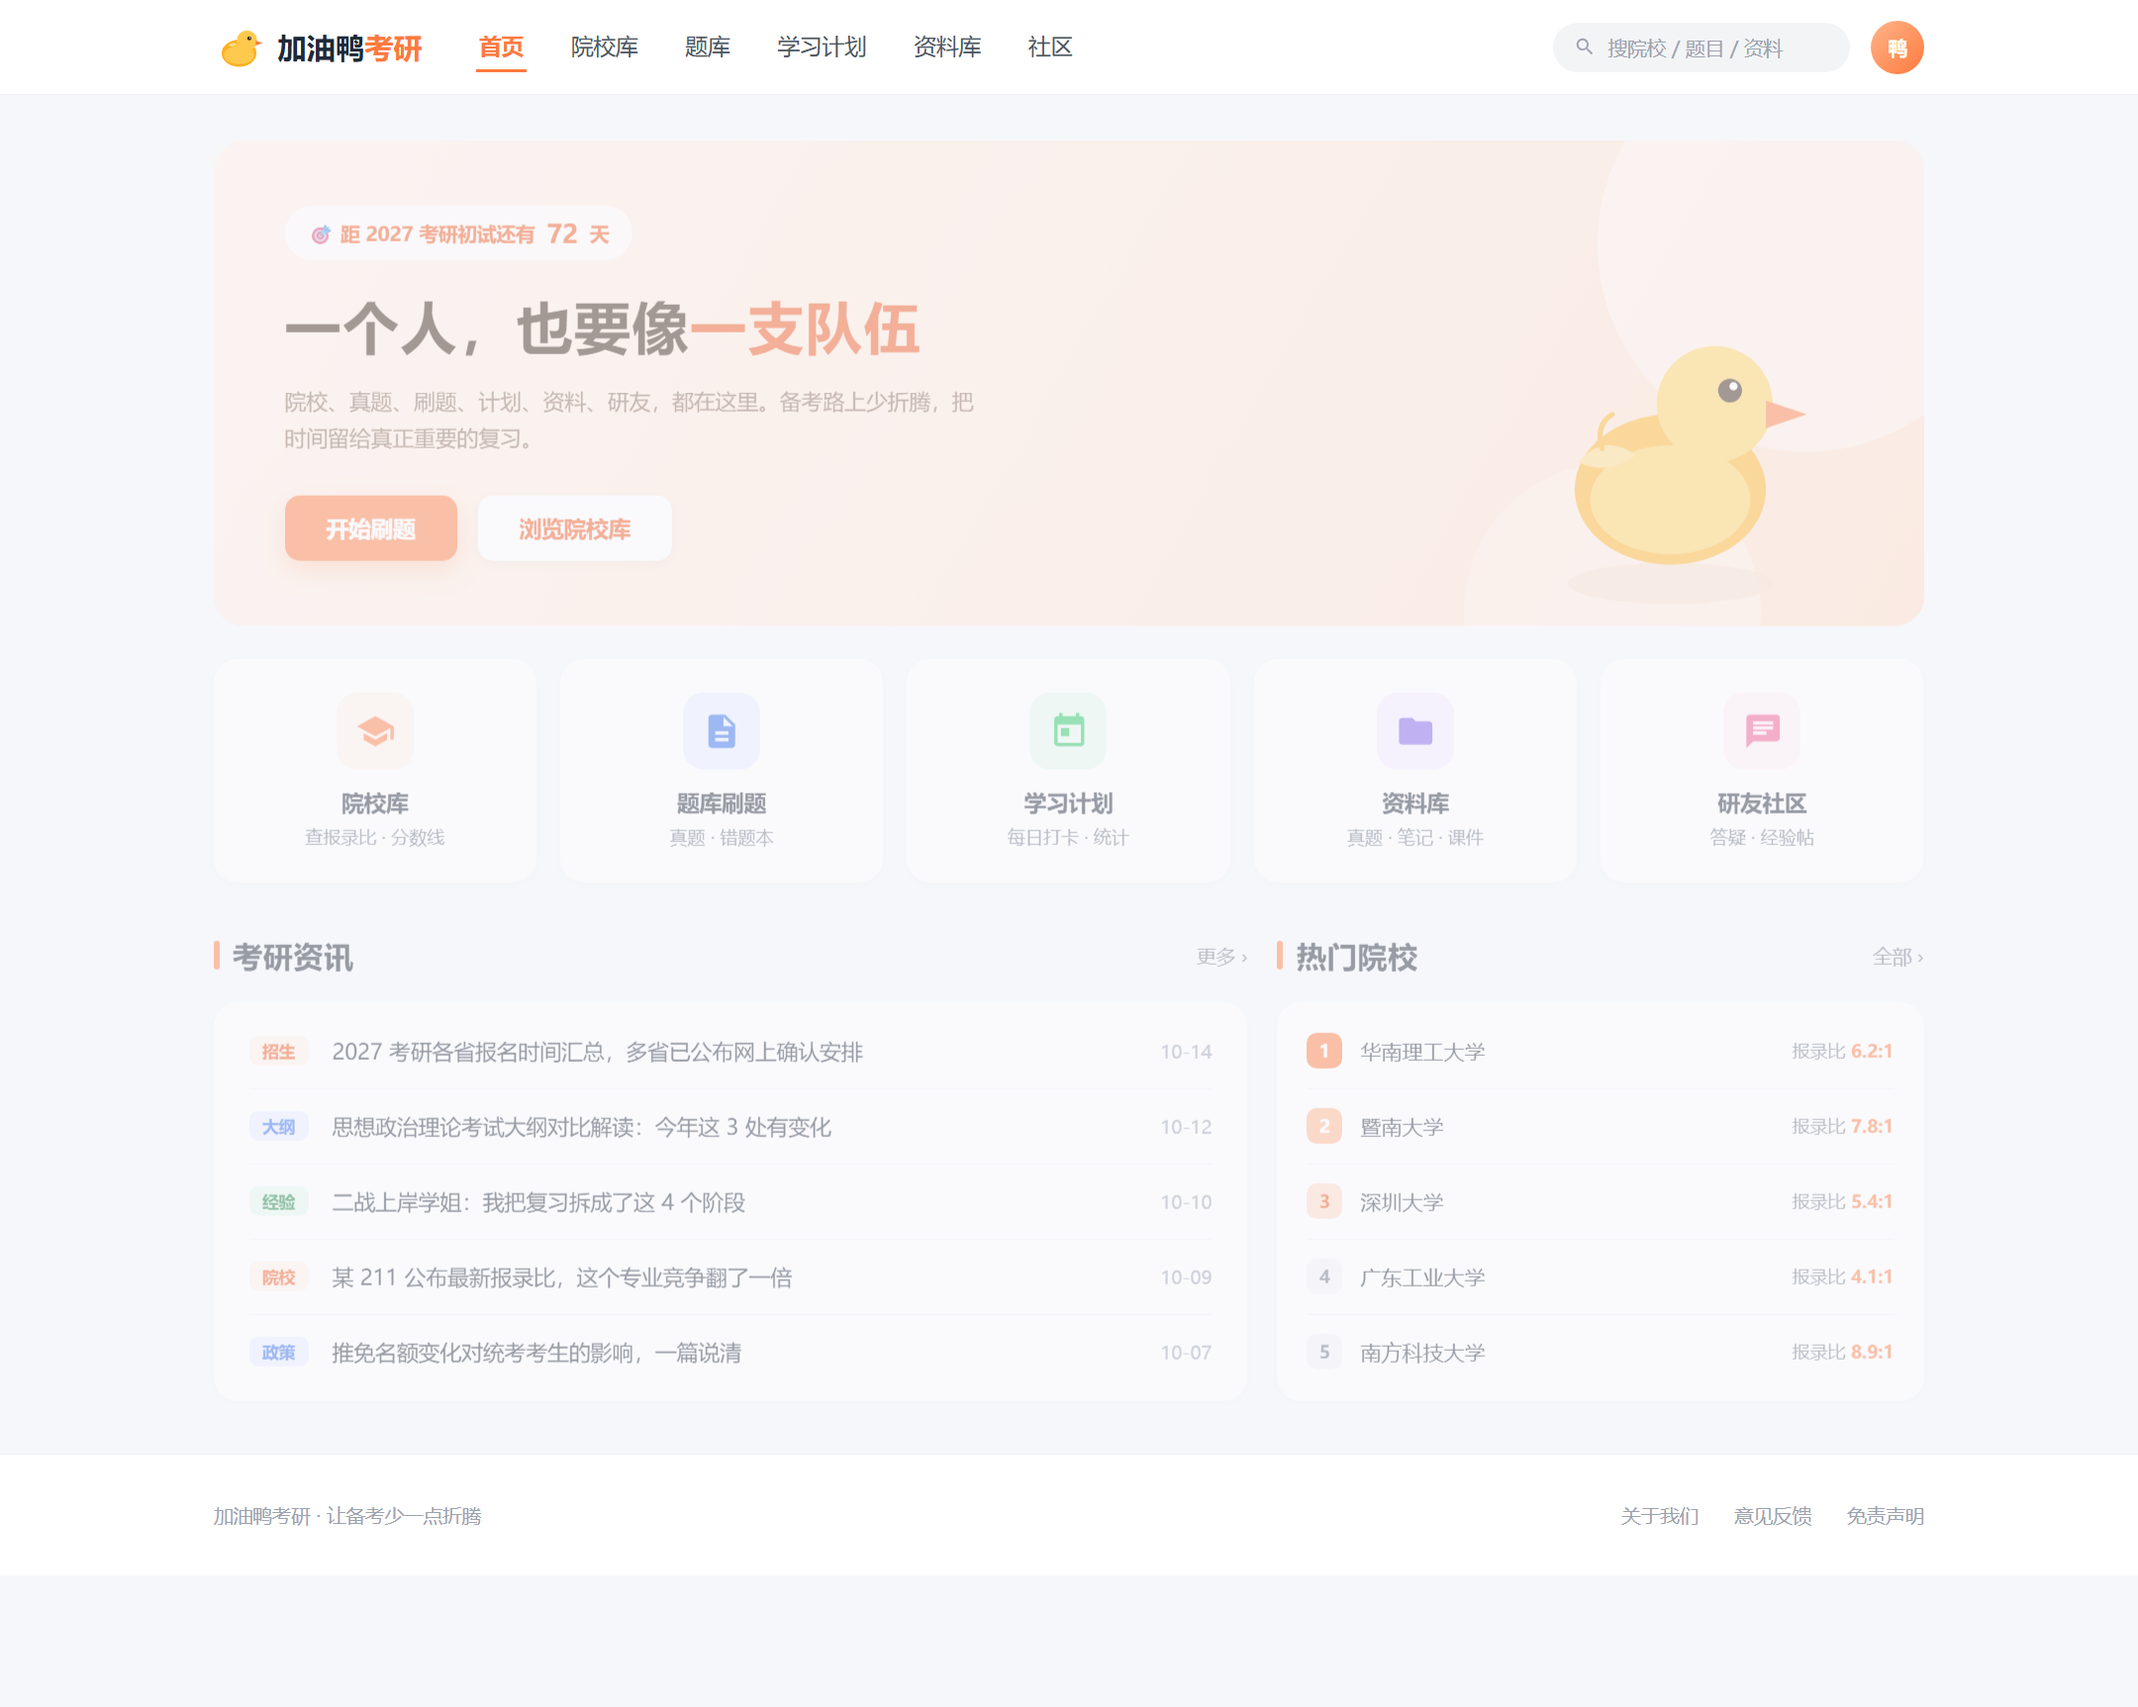
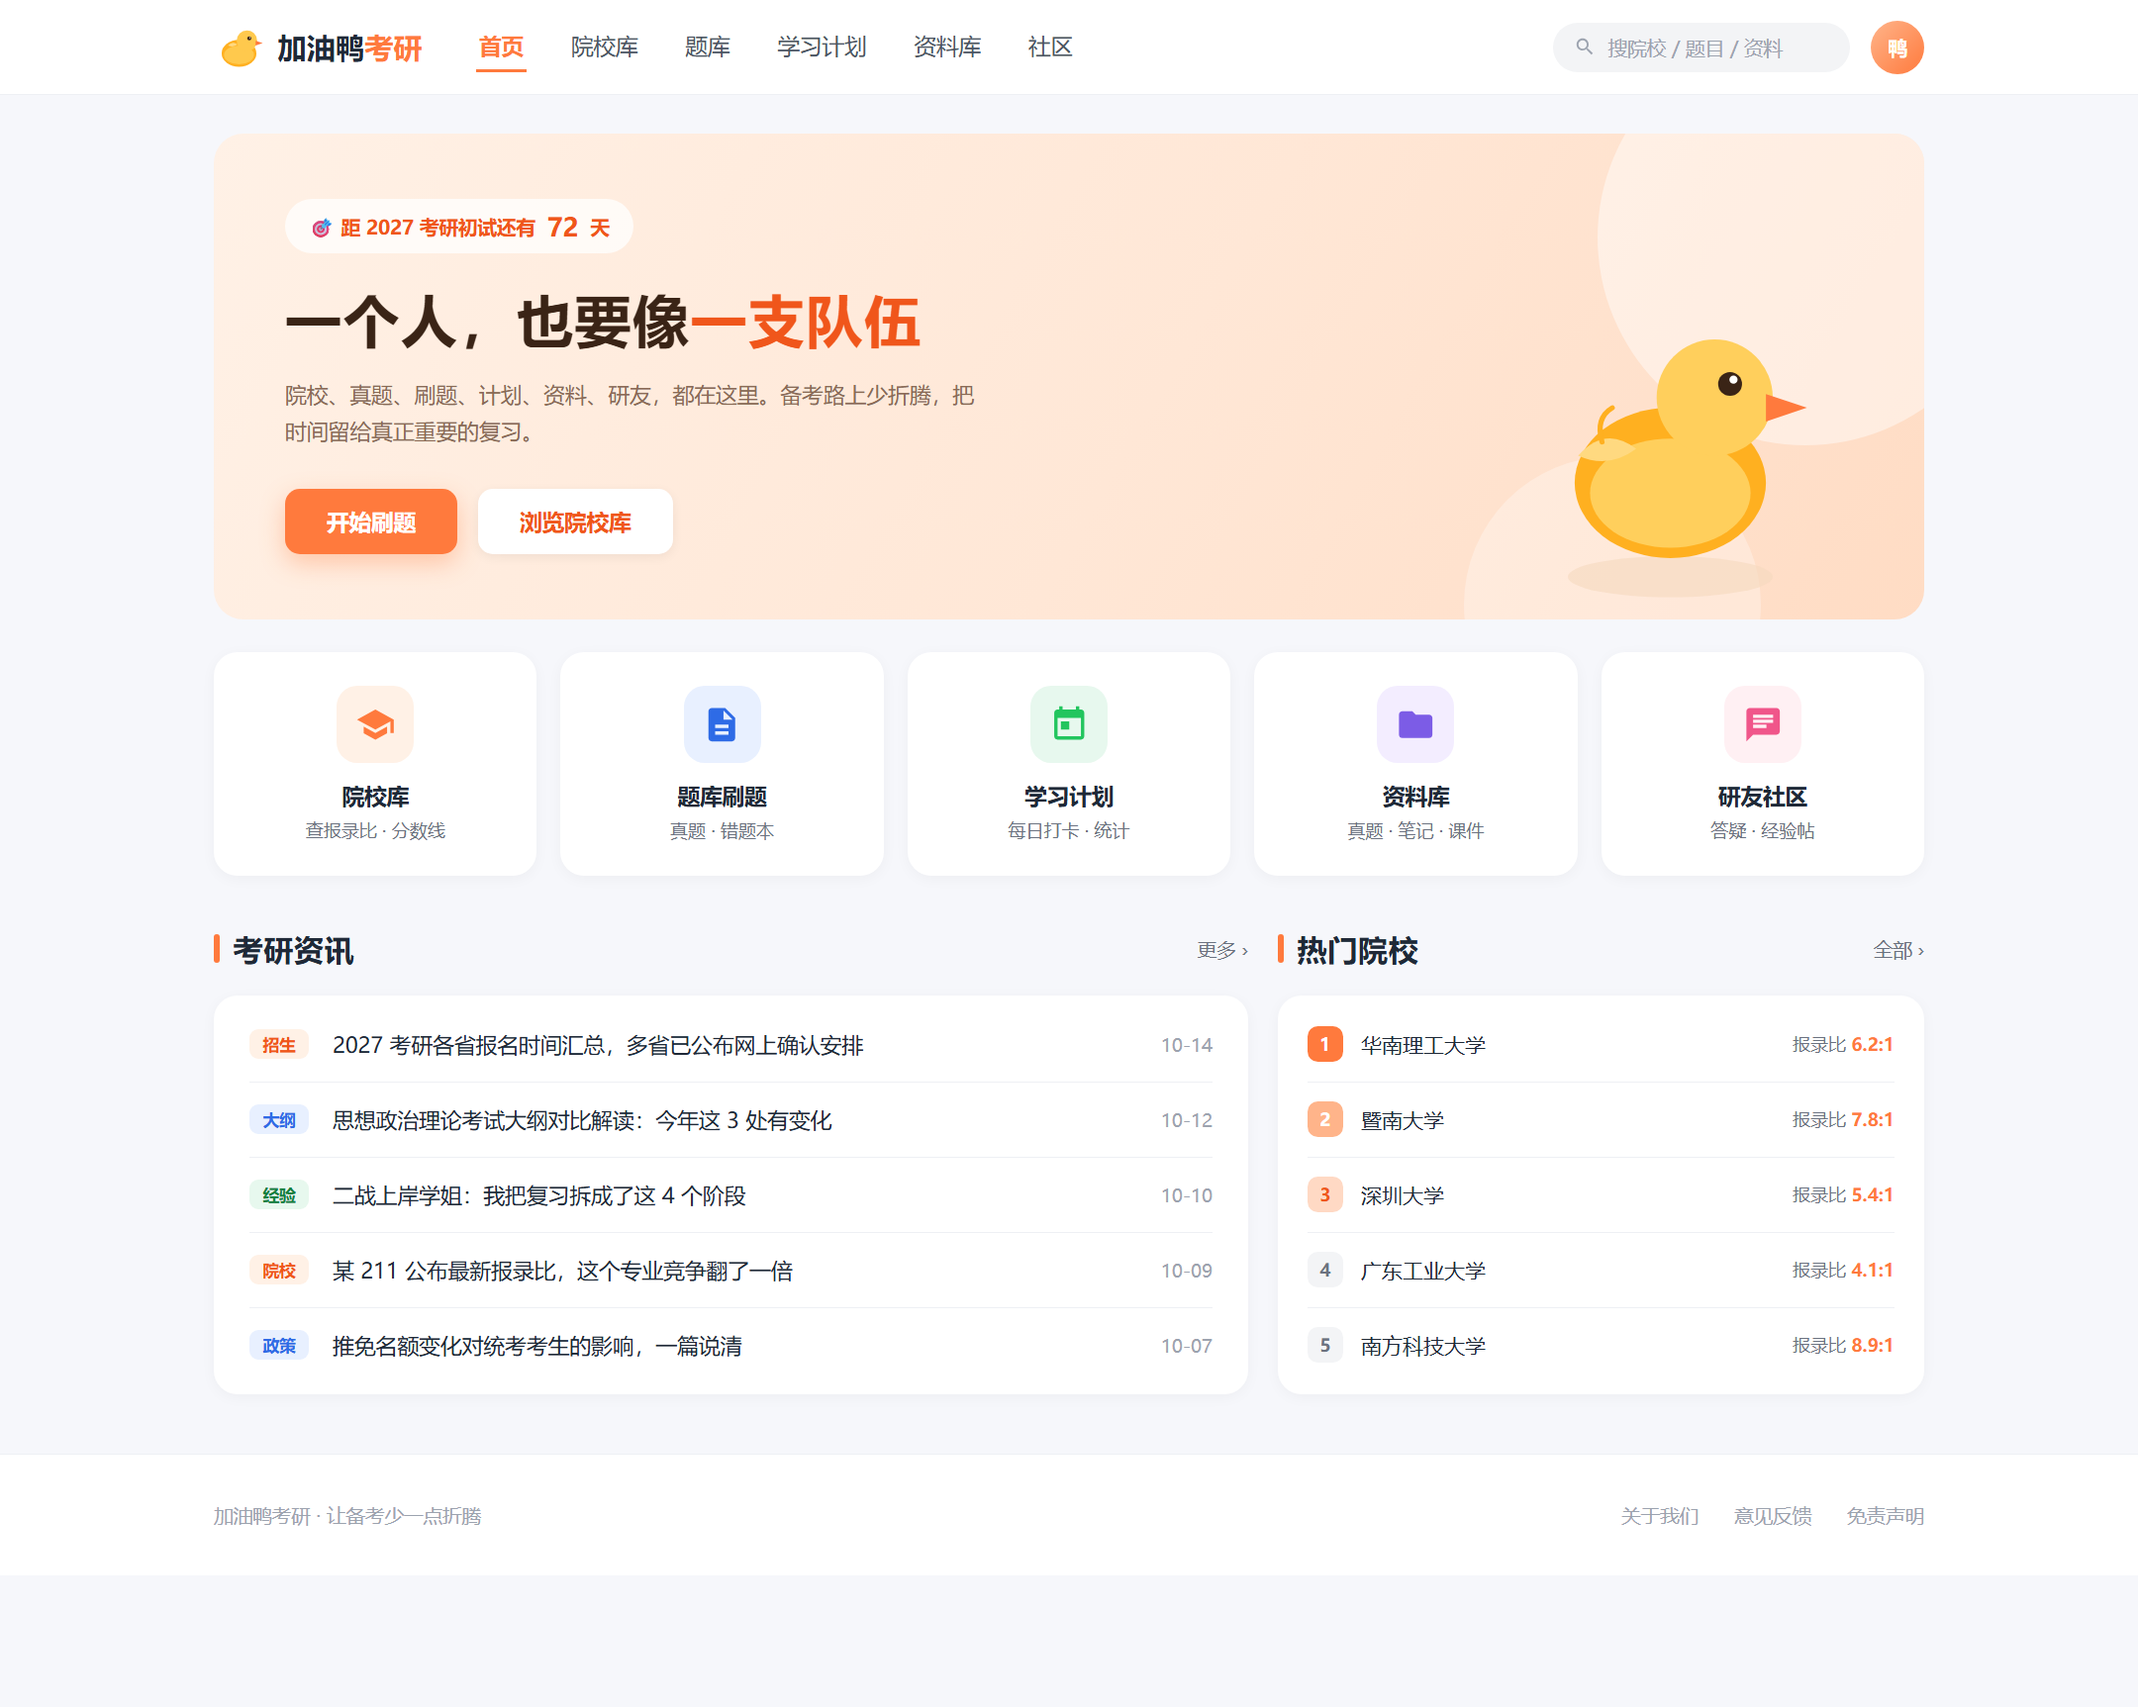
截图修复：重拍泛白截图，小程序截图改为一行并列画廊
根因：demo 页面切换有 250ms 淡入动画，无头截图抓在动画中途 → 整页泛白；重拍时注入样式禁用动画。红色影院 5 张改为一行五张（每张约 1/5 宽 + 图注）。加油鸭 6 张同步重拍。

diff --git a/docs/.vuepress/theme/styles/custom.css b/docs/.vuepress/theme/styles/custom.css
@@ -136,3 +136,55 @@
     margin-bottom: 10px;
   }
 }
+
+/* ==========================================================================
+   首页：hero（闪电，满屏黑）与 banner（大图）交接处的渐变过渡
+   —— .banner-mask 是纯黑均匀遮罩，做不出渐变，所以在 banner 顶部叠一层
+   —— 颜色取实测值：hero 底部为 #020105~#191035（近黑带一点紫），故用 #06040f
+   —— 实测确认：hero 用的是 effect 背景，深浅两种配色下**都是深色底**，
+      所以这里不需要浅色变体（曾经加过白色变体，在浅色下会糊出一层白雾）
+   ========================================================================== */
+.vp-home-banner::after {
+  content: '';
+  position: absolute;
+  top: 0;
+  left: 0;
+  width: 100%;
+  height: 200px;
+  pointer-events: none;
+  background: linear-gradient(to bottom, #06040f 0%, rgba(6, 4, 15, 0) 100%);
+}
+
+/* ==========================================================================
+   项目文章：手机截图并列展示（缩小 + 一行五张；窄屏一行三张）
+   ========================================================================== */
+.shot-row {
+  display: flex;
+  flex-wrap: wrap;
+  justify-content: center;
+  gap: 12px;
+  margin: 12px 0 8px;
+}
+.shot-row figure {
+  margin: 0;
+  width: calc(20% - 9.6px);
+  max-width: 168px;
+}
+.shot-row img {
+  display: block;
+  width: 100%;
+  height: auto;
+  border-radius: 8px;
+  border: 1px solid var(--vp-c-divider);
+}
+.shot-row figcaption {
+  margin-top: 6px;
+  font-size: 12px;
+  text-align: center;
+  color: var(--vp-c-text-3);
+}
+@media (max-width: 640px) {
+  .shot-row figure {
+    width: calc(33.333% - 8px);
+  }
+}

diff --git a/docs/project/红色影院小程序.md b/docs/project/红色影院小程序.md
@@ -10,9 +10,15 @@ permalink: /project/4eh0tzs8/
 
 做这个没多想，课程设计要交，就挑了个自己够得着、又能把微信小程序那些知识点都串起来的题材。红色主题的好处是内容现成、方向明确，不至于做着做着跑偏了。
 
-先看看它长什么样。首页是电影列表加快捷入口，底部四个 tab：首页、排期、活动、我的。
+先看看它长什么样。首页是电影列表加快捷入口，底部四个 tab：首页、排期、活动、我的。五个主要页面都在这：
 
-<img src="./static/redcinema/home.png" alt="红色影院小程序首页">
+<div class="shot-row">
+  <figure><img src="./static/redcinema/home.png" alt="首页"><figcaption>首页</figcaption></figure>
+  <figure><img src="./static/redcinema/schedule.png" alt="放映排期"><figcaption>放映排期</figcaption></figure>
+  <figure><img src="./static/redcinema/seat.png" alt="在线选座"><figcaption>在线选座</figcaption></figure>
+  <figure><img src="./static/redcinema/activity.png" alt="党建活动"><figcaption>党建活动</figcaption></figure>
+  <figure><img src="./static/redcinema/mine.png" alt="个人中心"><figcaption>个人中心</figcaption></figure>
+</div>
 
 ## 为什么是原生 + 云开发
 
@@ -29,8 +35,6 @@ permalink: /project/4eh0tzs8/
 **红色电影列表**，这个最简单，云数据库里一张表，前端拉下来渲染就行，配个搜索和分类筛选。难的是后面。
 
 **放映排期**，电影不是想约就约的，得有场次。这里要存"哪部片、哪天、哪个时间段、剩多少座"，排期表跟电影表关联起来。做的时候才意识到，**排期和座位是绑在一起的**，排期只是入口，真正的麻烦在座位。
-
-<img src="./static/redcinema/schedule.png" alt="放映排期">
 
 **在线预约选座**，这个是我觉得最像"真东西"的部分。一个场次几十个座位，怎么把"这个座位已经被占了"这件事实时反映出来，是核心问题。
 
@@ -54,21 +58,15 @@ db.collection('seats').where({
 
 核心思路就是利用 `where` 条件里带上 `status: 'free'`，再加上 `update` 的返回里有个 `stats.updated`——**只有真正把状态从"空闲"改成"已约"的那一次，updated 才会是 1**。谁抢到就是谁，抢不到就提示重选。这个机制想通之后，才明白为什么大家老说"数据库的原子操作"，原来就为防这种"同时点"的情况。
 
-选座页长这样，中间那条弧线是银幕，座位分可选（白）、已选（红）、已占（灰）三种状态：
-
-<img src="./static/redcinema/seat.png" alt="在线选座">
+选座页里，中间那条弧线是银幕，座位分可选（白）、已选（红）、已占（灰）三种状态。
 
 **党建活动报名**，跟电影预约是两套逻辑。活动不选座，但要存"报名了谁、多少人、有没有上限"。报名上限的判断也踩了类似的坑——如果先查人数再判断，中间隔的那一下就可能超员，所以同样是"条件更新"那套思路，人数没满才允许插入。
 
-活动页是这样，每场活动显示时间地点和报名进度，名额满了按钮就置灰：
-
-<img src="./static/redcinema/activity.png" alt="党建活动报名">
+活动页里，每场活动显示时间地点和报名进度，名额满了按钮就置灰。
 
 **党史内容展示**，纯内容页，图文列表 + 详情，没什么技术含量，纯粹把红色题材的"内容感"撑起来。
 
-最后是个人中心，能看到自己的电影预约、活动报名和学习时长，页面朴素但该有的都有：
-
-<img src="./static/redcinema/mine.png" alt="个人中心">
+最后是个人中心，能看到自己的电影预约、活动报名和学习时长，页面朴素但该有的都有。
 
 ## 几个印象深的坑
 
